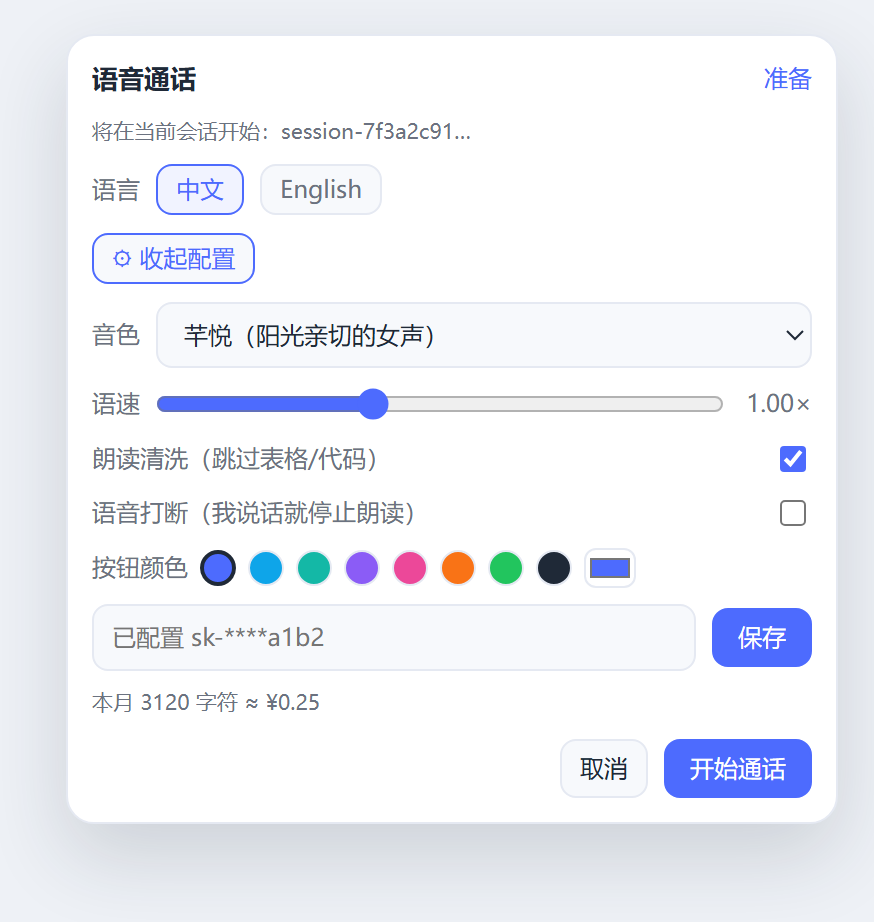
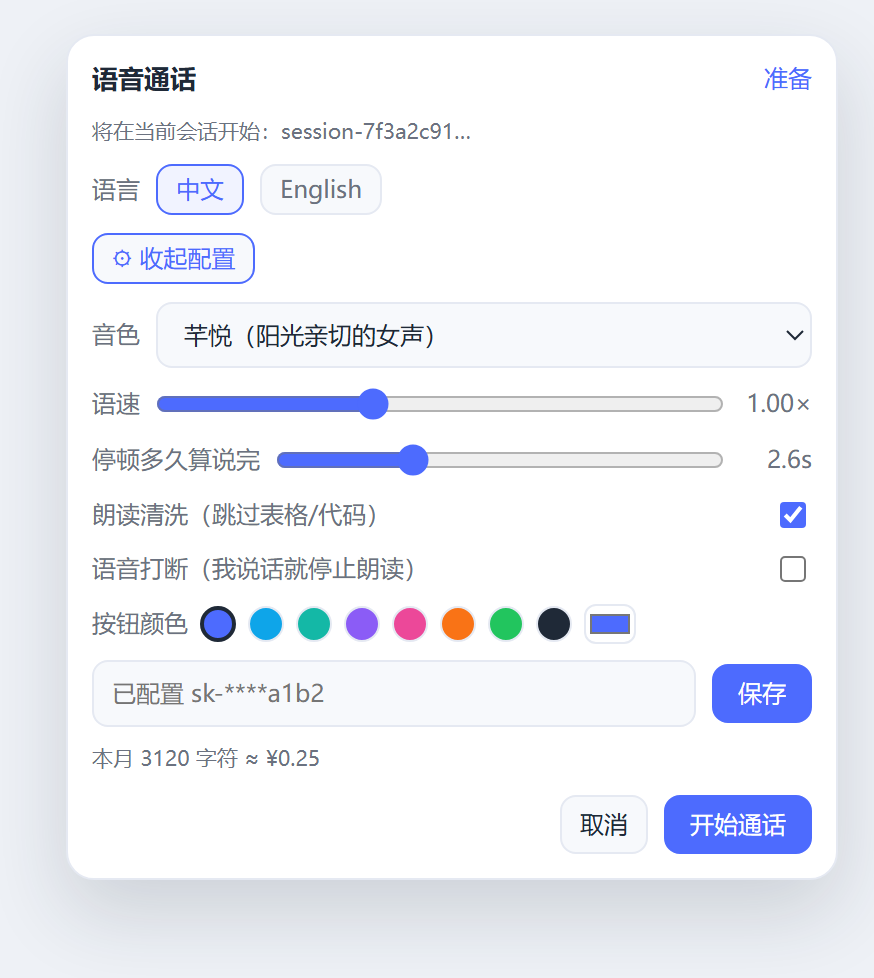
Make the pause-before-send length adjustable
A fixed 2.6s silence ended the utterance, so thinking mid-sentence sent a
partial message. The setup panel now has a 1.2-6.0s slider (default 2.6s,
stored per browser), the recording cap rises to 120s, and the settings
screenshot is regenerated.

diff --git a/client.js b/client.js
@@ -35,8 +35,10 @@ window.__ModuleLoader__.load({
 
     const FONT = "12px/1.45 system-ui, -apple-system, 'Segoe UI', sans-serif";
     const MIC_THRESHOLD = 0.009;
-    const SILENCE_MS = 2600;
-    const MAX_RECORD_MS = 45000;
+    const SILENCE_MS = 2600; // default only; the setup panel can change it per browser
+    const SILENCE_MIN = 1200;
+    const SILENCE_MAX = 6000;
+    const MAX_RECORD_MS = 120000;
     const IDLE_MS = 10000;
     const FIRST_CHUNK = 90;
     const SPEECH_TAIL_MS = 600;
@@ -87,6 +89,8 @@ window.__ModuleLoader__.load({
         'rate': '语速',
         'clean': '朗读清洗（跳过表格/代码）',
         'bargeIn': '语音打断（我说话就停止朗读）',
+        'silence': '停顿多久算说完',
+        'silence.hint': '说完后静音多久就把这句话发出去；说长句时调大',
         'settings': '配置',
         'settings.hide': '收起配置',
         'error.ttsSkip': '有 {n} 段没读出来，已跳过',
@@ -149,6 +153,8 @@ window.__ModuleLoader__.load({
         'rate': 'Rate',
         'clean': 'Skip code and tables when reading',
         'bargeIn': 'Stop reading when I speak',
+        'silence': 'Pause before sending',
+        'silence.hint': 'How long a silence ends a sentence; raise it for long dictation',
         'settings': 'Settings',
         'settings.hide': 'Hide settings',
         'error.ttsSkip': '{n} part(s) could not be spoken, skipped',
@@ -230,6 +236,21 @@ window.__ModuleLoader__.load({
       storedBargeIn = localStorage.getItem('dsh-voice-call-barge-in') === '1';
     } catch {}
 
+    let storedSilence = SILENCE_MS;
+    try {
+      const saved = Number(localStorage.getItem('dsh-voice-call-silence'));
+      if (Number.isFinite(saved) && saved > 0) storedSilence = saved;
+    } catch {}
+    storedSilence = Math.min(SILENCE_MAX, Math.max(SILENCE_MIN, storedSilence));
+
+    function setSilence(value) {
+      const ms = Math.min(SILENCE_MAX, Math.max(SILENCE_MIN, Math.round(Number(value) || SILENCE_MS)));
+      set({ silence: ms });
+      try {
+        localStorage.setItem('dsh-voice-call-silence', String(ms));
+      } catch {}
+    }
+
     function setBargeIn(value) {
       set({ bargeIn: Boolean(value) });
       try {
@@ -261,6 +282,7 @@ window.__ModuleLoader__.load({
       accent: storedAccent,
       lang: storedLang,
       bargeIn: storedBargeIn,
+      silence: storedSilence,
     };
 
     function set(patch) {
@@ -1110,7 +1132,7 @@ window.__ModuleLoader__.load({
       return Math.sqrt(sum / data.length);
     }
 
-    async function recordUtterance(idleMs = IDLE_MS, silenceMs = SILENCE_MS) {
+    async function recordUtterance(idleMs = IDLE_MS, silenceMs = call.silence || SILENCE_MS) {
       const { stream, context, analyser } = await ensureMic();
       const recorder = new MediaRecorder(stream);
       const chunks = [];
@@ -1623,6 +1645,25 @@ window.__ModuleLoader__.load({
       );
     }
 
+    function silenceRow(state, accent) {
+      const seconds = Math.round((Number(state.silence) || SILENCE_MS) / 100) / 10;
+      return h(
+        'label',
+        { style: S.label, title: t('silence.hint') },
+        t('silence'),
+        h('input', {
+          type: 'range',
+          min: SILENCE_MIN / 1000,
+          max: SILENCE_MAX / 1000,
+          step: 0.2,
+          value: seconds,
+          onChange: (event) => setSilence(Number(event.target.value) * 1000),
+          style: { flex: 1, accentColor: accent },
+        }),
+        h('span', { style: { width: 36, textAlign: 'right' } }, seconds.toFixed(1) + 's'),
+      );
+    }
+
     function cleanRow(state, accent) {
       return h(
         'label',
@@ -1696,6 +1737,7 @@ window.__ModuleLoader__.load({
         { style: { display: 'flex', flexDirection: 'column', gap: 8 } },
         voiceRow(state),
         rateRow(state, accent),
+        silenceRow(state, accent),
         cleanRow(state, accent),
         bargeRow(state, accent),
         withColor ? h(AccentPicker, { accent, onChange: setAccent }) : null,

diff --git a/README.zh.md b/README.zh.md
@@ -96,10 +96,11 @@
 - 没有凭据库时退回 `~/.dsh/voice-call.json`，其中已存在的 Key 会在首次使用时迁移进凭据库。
 - 环境变量 `DASHSCOPE_API_KEY` 作为最后兜底。
 
-非敏感偏好（音色、语速、本月字符数）存在 `~/.dsh/voice-call.json`。**界面语言**、**朗读清洗**、**语音打断**和**按钮颜色**都按浏览器保存在 `localStorage` 里；颜色只在准备面板里改，通话中不再显示这一行。
+非敏感偏好（音色、语速、本月字符数）存在 `~/.dsh/voice-call.json`。**界面语言**、**朗读清洗**、**语音打断**、**停顿判定**和**按钮颜色**都按浏览器保存在 `localStorage` 里；颜色只在准备面板里改，通话中不再显示这一行。
 
 ## 行为说明
 
+- **说一句的结束由你定。** “停顿多久算说完”滑块控制说完后静音多久才发送：1.2 秒到 6.0 秒，默认 2.6 秒。说话中间习惯停顿就调大；想立刻发送仍然按 **说完**。
 - **「打断」只停止朗读。** 它中断当前的合成请求、清空队列，但 Agent 继续生成。如果这一轮还在跑，你接着说会用 `steer` 把话插进当前轮。
 - **语音打断是可选项，默认关闭。** 打开后，朗读期间麦克风保持开启：你一开口，朗读会在零点几秒内停下，这句话被录下来，作为普通消息发进去（如果这一轮仍在生成，则用 `steer` 插话）。如果 2.5 秒内没识别出文字——咳嗽、关门、外放回声——会从断开的地方继续朗读，不丢内容。开关在准备面板和通话卡片上都有。
 - **边生成边朗读。** 每完成一句（或攒到 90 字）就立刻送去合成，不再等 `turn/end`，所以第一声不用等整段回复写完。剩下的延迟是 DashScope 的往返和合成时间。

diff --git a/README.md b/README.md
@@ -135,13 +135,17 @@ Open the call widget and paste an Alibaba Cloud DashScope API key (`sk-…`).
 
 Non-secret preferences (voice, rate, monthly character count) live in
 `~/.dsh/voice-call.json`. The interface language, the "朗读清洗" switch, voice
-barge-in and the button colour are per browser and stored in `localStorage`; the
-colour defaults to DeepSeek blue (`#4D6BFE`), is picked from swatches or any
-custom value, and is offered only in the pre-call panel — the in-call card does
-not show it, so it cannot be changed by accident mid-call.
+barge-in, the pause-before-send length and the button colour are per browser and
+stored in `localStorage`; the colour defaults to DeepSeek blue (`#4D6BFE`), is
+picked from swatches or any custom value, and is offered only in the pre-call
+panel — the in-call card does not show it, so it cannot be changed by accident
+mid-call.
 
 ## Behaviour notes
 
+- **A sentence ends after a silence you control.** The 停顿多久算说完 slider sets
+  how long a pause ends the utterance — 1.2 s to 6.0 s, default 2.6 s. Raise it
+  when you think mid-sentence; **说完** still sends immediately.
 - **“打断” stops the reading only.** It aborts the current speech fetches, clears
   the queue, and keeps the agent generating. Speaking again while the turn is
   still running sends that message with `steer`.
